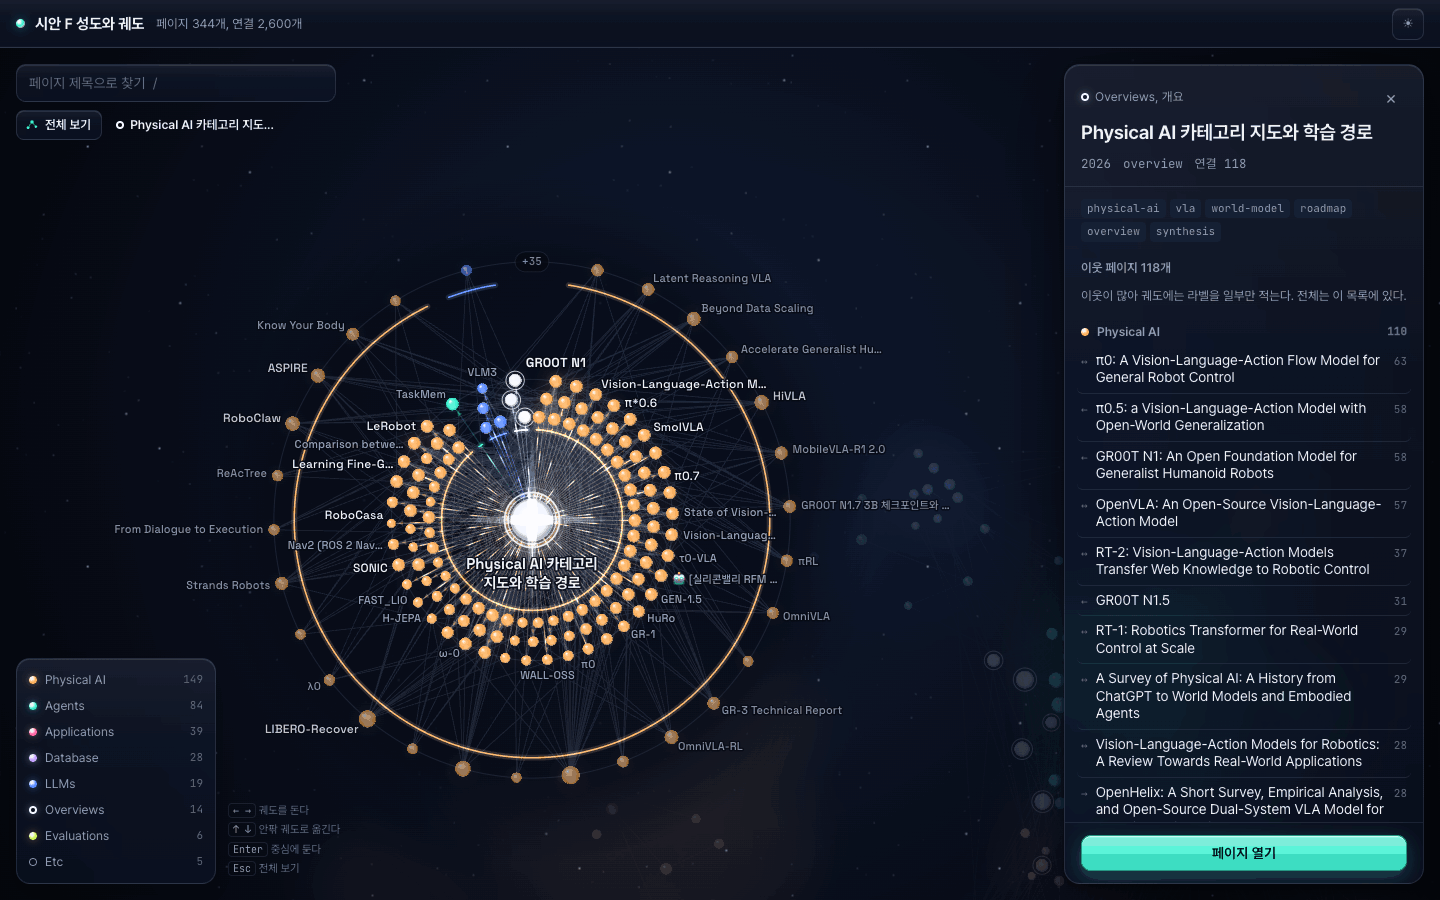
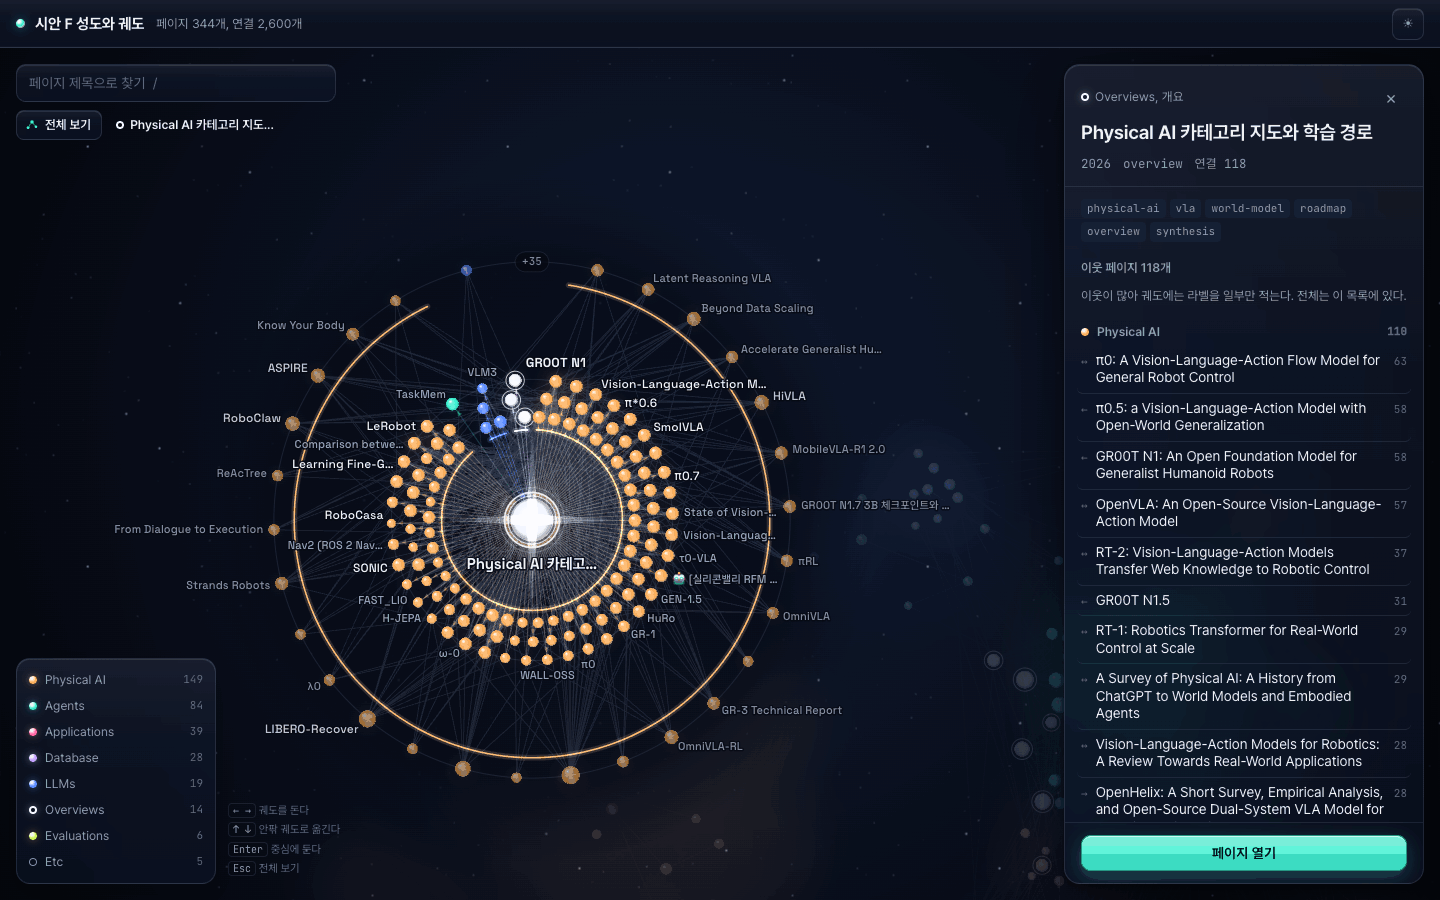
:white_check_mark: test: 그래프 통합 시안 F 독립 검증, 결함 수정, 색각 이상 팔레트 조정 (Phase 1)
Claude-Session: https://claude.ai/code/session_01FQuCiX7t8h1AiDHEnij3aM

diff --git a/docs/graph-mockups/f-atlas-orbit.html b/docs/graph-mockups/f-atlas-orbit.html
@@ -85,9 +85,9 @@
     --cat-agents: #008f78;
     --cat-applications: #d42a6c;
     --cat-database: #8a46e0;
-    --cat-llms: #2458e8;
+    --cat-llms: #1e4ac3;
     --cat-overviews: #141a2e;
-    --cat-evaluations: #5f8500;
+    --cat-evaluations: #486500;
     --cat-etc: #6b7690;
 
     --graph-bg: #f3f4f8;
@@ -269,9 +269,12 @@
   @media (max-width: 640px) {
     .f-trail { max-width: calc(100% - 2 * var(--space-4)); }
     .f-hint { display: none !important; }
-    .mk-legend { width: auto; display: flex; gap: 2px; padding: 6px 8px; }
+    .mk-legend { width: auto; display: flex; flex-wrap: wrap; gap: 2px; padding: 6px 8px; max-width: calc(100vw - 2 * var(--space-4) - 96px); }
     .mk-legend li { padding: 0; width: 26px; height: 26px; justify-content: center; }
     .mk-legend li .a-name, .mk-legend .mk-legend-n, .mk-legend .f-legend-reset { display: none; }
+    /* 누른 견본은 이름을 펼친다: 성운 이름이 자리를 못 찾아도 탭 한 번으로 카테고리를 읽는다 */
+    .mk-legend li[aria-pressed='true'] { width: auto; padding: 0 9px 0 8px; gap: 6px; }
+    .mk-legend li[aria-pressed='true'] .a-name { display: inline; font-size: var(--text-xs); color: var(--text); white-space: nowrap; }
     .mk-legend li .mk-swatch { width: 10px; height: 10px; }
     .mk-legend li[aria-pressed='true'] { background: color-mix(in srgb, var(--c) 22%, transparent); }
     .f-tools #reset-filter { display: none; }
@@ -482,7 +485,7 @@ function main() {
     var ns = nodes.filter(function (n) { return n.category === c.id; });
     var xs = ns.map(function (n) { return n.hx; }).sort(function (a, b) { return a - b; });
     var ys = ns.map(function (n) { return n.hy; }).sort(function (a, b) { return a - b; });
-    return { id: c.id, en: c.en, n: ns.length, x: xs[xs.length >> 1], top: ys[0], bottom: ys[ys.length - 1] };
+    return { id: c.id, en: c.en, n: ns.length, x: xs[xs.length >> 1], y: ys[ys.length >> 1], top: ys[0], bottom: ys[ys.length - 1], left: xs[0], right: xs[xs.length - 1] };
   });
   var rank = nodes.slice().sort(function (a, b) { return b.degree - a.degree; });
   rank.forEach(function (n, i) { n.rank = i; });
@@ -733,8 +736,8 @@ function main() {
       if (i > 0 && n.category !== list[i - 1].category) a += gap;
       var tr = tracks > 1 ? i % tracks : 0;
       pos.set(n.id, { rad: R + tr * TRACK, ang: a + step / 2, ring: ring, cap: cap });
-      if (!arc || arc.cat !== n.category) { arc = { cat: n.category, a0: a, a1: a + step, r: arcR }; arcs.push(arc); }
-      else arc.a1 = a + step;
+      if (!arc || arc.cat !== n.category) { arc = { cat: n.category, a0: a, a1: a + step, r: arcR, n: 1 }; arcs.push(arc); }
+      else { arc.a1 = a + step; arc.n++; }
       a += step;
     });
   }
@@ -1185,7 +1188,8 @@ function main() {
     // 카테고리 호: 넓고 흐린 빛 위에 가는 선 한 줄
     ctx.globalCompositeOperation = F.blend;
     v.arcs.forEach(function (arc) {
-      var am = cats && !cats.has(arc.cat) ? T.dimAlpha : 1;
+      if (arc.n < 2) return; // 한 개짜리 호는 노드 밑을 긋는 취소선처럼 읽힌다. 노드 색이 이미 카테고리를 말한다
+      var am =cats && !cats.has(arc.cat) ? T.dimAlpha : 1;
       var a1 = Math.max(arc.a0 + 0.008, arc.a1 - 0.004), a0 = arc.a0 + 0.004;
       var end = Math.min(a1, START + TAU * prog);
       if (end <= a0) return;
@@ -1276,12 +1280,15 @@ function main() {
     CAT_INFO.forEach(function (c) {
       if (c.id === 'overviews' || c.n < 5) return;
       var a = cats ? (cats.has(c.id) ? 1 : 0.25) : 1;
-      var size = c.n > 60 ? 15 : 13;
+      var mob = isMobile(), size = mob ? (c.n > 60 ? 13 : 11) : c.n > 60 ? 15 : 13;
       ctx.font = '500 ' + size + 'px ' + T.fontDisplay;
-      if ('letterSpacing' in ctx) ctx.letterSpacing = '0.16em';
+      if ('letterSpacing' in ctx) ctx.letterSpacing = mob ? '0.1em' : '0.16em';
       var tw = ctx.measureText(c.en).width, x0 = c.x * k + tx;
-      var top = c.top * k + ty, bot = c.bottom * k + ty;
-      var cands = [[x0, top - 18], [x0, bot + size + 18], [x0, top - 40], [x0, bot + size + 40], [x0 - tw * 0.6, top - 18], [x0 + tw * 0.6, top - 18]];
+      var top = c.top * k + ty, bot = c.bottom * k + ty, ym = c.y * k + ty + size / 2;
+      var lft = c.left * k + tx - tw / 2 - 10, rgt = c.right * k + tx + tw / 2 + 10;
+      // 위아래가 막히면 성운 옆, 그다음 성운 안 빈 자리를 본다 (좁은 모바일에서 Applications 가 빠지던 문제)
+      var cands = [[x0, top - 18], [x0, bot + size + 18], [x0, top - 40], [x0, bot + size + 40], [x0 - tw * 0.6, top - 18], [x0 + tw * 0.6, top - 18],
+        [lft, ym], [rgt, ym], [x0 - tw * 0.6, bot + size + 18], [x0 + tw * 0.6, bot + size + 18], [x0, ym]];
       var spot = null;
       for (var ci = 0; ci < cands.length && !spot; ci++) {
         var x = cands[ci][0], y = cands[ci][1];
@@ -1298,7 +1305,7 @@ function main() {
       ctx.globalAlpha = alpha * a * (dark ? 0.7 : 0.8);
       ctx.fillStyle = T.cat[c.id];
       ctx.fillText(c.en, spot[0], spot[1]);
-      nameBoxes.push({ x: spot[0] - tw / 2 - 4, y: spot[1] - size - 2, w: tw + 8, h: size + 6 });
+      nameBoxes.push({ x: spot[0] - tw / 2 - 4, y: spot[1] - size - 2, w: tw + 8, h: size + 6, id: c.id });
     });
     if ('letterSpacing' in ctx) ctx.letterSpacing = '0px';
     ctx.textAlign = 'left'; ctx.globalAlpha = 1;
@@ -1363,7 +1370,7 @@ function main() {
     fitCache.set(key, out);
     return out;
   }
-  var orbitLabelCount = 0;
+  var orbitLabelCount = 0; var centerBoxes = [];
   function drawOrbitLabels(h, cats) {
     var k = cam.k, cs = S({ x: C.x, y: C.y });
     var rightBound = isMobile() || panelEl.hidden ? W - 8 : W - 360 - 32;
@@ -1378,14 +1385,21 @@ function main() {
       ctx.globalAlpha = clamp((cd.lt - 0.6) / 0.4);
       ctx.font = '700 15px ' + T.fontDisplay; ctx.textAlign = 'center'; ctx.textBaseline = 'top'; ctx.fillStyle = T.label;
       if ('letterSpacing' in ctx) ctx.letterSpacing = '-0.01em';
-      // 중심 라벨이 안쪽 궤도에 닿지 않게: 궤도가 작으면 짧은 이름 한 줄
-      var room = view.R1 * k - rc - 16;
-      var lines = room > 64 ? wrap(cd.title, Math.min(260, view.R1 * k * 1.3), 2) : wrap(cd.label, Math.min(220, view.R1 * k * 1.5), 1);
-      var y0 = c0.y + rc + 16;
+      // 중심 라벨이 안쪽 궤도에 닿지 않게: 줄마다 안쪽 궤도 노드 안쪽 원의 현 길이를 넘지 않는다.
+      // 두 줄에 제목이 다 들어가지 않으면 짧은 이름 한 줄로 줄인다 (전체 제목은 패널이 맡는다)
+      centerBoxes = [];
+      var y0 = c0.y + rc + 16, rIn = 0;
+      view.r1.forEach(function (m) { rIn = Math.max(rIn, nodeR(m)); });
+      rIn = Math.min(view.R1 * k - rIn - 6, (view.R1 - 16) * k - 5); // 안쪽 카테고리 호(R1 - 16)도 넘지 않는다
+      var chord = function (dy) { return 2 * Math.sqrt(Math.max(0, rIn * rIn - dy * dy)); }; // dy: 줄 글자 아래끝 (15px 글꼴 17px, 둘째 줄 36px)
+      var lines = wrap(cd.title, Math.min(260, chord(y0 - c0.y + 36)), 2);
+      var w1 = chord(y0 - c0.y + 17);
+      if (/…$/.test(lines[lines.length - 1])) lines = w1 >= 16 ? wrap(cd.label, Math.min(220, w1), 1) : []; // 궤도가 아주 작으면 라벨 없이 경로 줄과 패널에 맡긴다
       lines.forEach(function (ln, i) {
         label(ln, c0.x, y0 + i * 19);
         var w = ctx.measureText(ln).width;
         boxes.push({ x: c0.x - w / 2 - 2, y: y0 + i * 19 - 2, w: w + 4, h: 19 });
+        centerBoxes.push(boxes[boxes.length - 1]);
       });
       if ('letterSpacing' in ctx) ctx.letterSpacing = '0px';
     }
@@ -1549,7 +1563,9 @@ function main() {
   pToggle.addEventListener('click', function () {
     var peek = panelEl.classList.toggle('is-peek');
     pToggle.setAttribute('aria-expanded', String(!peek));
-    syncSheet(); redraw();
+    syncSheet();
+    if (view) flyTo(orbitCam(view), 360); // 시트 높이가 바뀌면 중심이 시트 밑에 숨지 않게 궤도를 남은 자리에 다시 맞춘다
+    redraw();
   });
   function announce(n) { document.getElementById('live').textContent = n.title + ' 중심. 이웃 ' + n.nb.size + '개'; }
 
@@ -1814,6 +1830,7 @@ function main() {
     select: function (id) { recenter(id); }, exit: function () { exitOrbit(); },
     view: function () { return view && { cid: view.cid, r1: view.r1.length, r2: view.r2.length, hidden: view.hidden, labels: orbitLabelCount }; },
     drawTimes: drawTimes,
+    names: function () { return nameBoxes.map(function (b) { return b.id; }); }, centerBoxes: function () { return centerBoxes; },
   };
 }
 })();

diff --git a/docs/graph-mockups/design-direction.md b/docs/graph-mockups/design-direction.md
@@ -44,7 +44,7 @@
 | 수치 | JetBrains Mono | 11px ~ 12.5px | 400 | `tabular-nums` |
 | 캔버스 라벨 | Space Grotesk | 11 / 12 / 13px | 500, 허브와 호버 700 | 0.01em |
 | 궤도 중심 라벨 | Space Grotesk | 15px | 700 | -0.01em |
-| 성운 이름 | Space Grotesk | 13 / 15px | 500 | 0.16em, 알파 dark 0.7, light 0.8 |
+| 성운 이름 | Space Grotesk | 13 / 15px (모바일 11 / 13px) | 500 | 0.16em (모바일 0.1em), 알파 dark 0.7, light 0.8 |
 
 라벨 뒤에는 `--graph-label-halo` 3px stroke를 먼저 그린다. 크기 기준은 처음 판과 같다 (degree 50 이상 13px, 15 ~ 49는 12px, 14 이하 11px muted).
 
@@ -58,14 +58,15 @@
 | agents | `--cat-agents` | `#3ef2d2` | 13.9 | `#008f78` | 3.7 | 구 |
 | applications | `--cat-applications` | `#ff6aa6` | 7.4 | `#d42a6c` | 4.4 | 구 |
 | database | `--cat-database` | `#c4a2ff` | 9.3 | `#8a46e0` | 4.7 | 구 |
-| llms | `--cat-llms` | `#5e8eff` | 6.4 | `#2458e8` | 5.3 | 구 |
+| llms | `--cat-llms` | `#5e8eff` | 6.4 | `#1e4ac3` | 6.8 | 구 |
 | overviews | `--cat-overviews` | `#f3f6ff` | 18.2 | `#141a2e` | 15.7 | 구 + 바깥 고리 |
-| evaluations | `--cat-evaluations` | `#cdf25a` | 15.4 | `#5f8500` | 4.0 | 구 |
+| evaluations | `--cat-evaluations` | `#cdf25a` | 15.4 | `#486500` | 6.1 | 구 |
 | etc | `--cat-etc` | `#7d8ba6` | 5.7 | `#6b7690` | 4.1 | 유리 고리 (빈 원) |
 
 - 모든 색이 그래픽 기준 3:1을 넘는다. 텍스트는 카테고리 색이 아니라 `--text`(dark 15.5:1, light 15.7:1)와 `--muted`(dark 6.2:1, light 5.7:1)로 쓴다.
-- llms와 database는 처음 판처럼 밝기를 갈라 둔다 (dark에서 llms 어둡게, database 밝게).
-- 색각 이상 시뮬레이션은 이번 개정에서 다시 돌리지 않았다. 처음 판과 hue 자리는 같고 밝기 순서도 같으나, 사이트 이식 전에 Machado 2009 검사를 다시 한다.
+- llms와 database는 처음 판처럼 밝기를 갈라 둔다 (dark에서 llms 어둡게, database 밝게). light에서도 llms를 database보다 어둡게 둔다.
+- 색각 이상 검사: Machado 2009 행렬(심각도 1.0)로 제1, 제2, 제3 색각 이상을 흉내 내고 짝마다 CIEDE2000 거리를 잰다. 처음 light 값에서 제1색각 이상의 database와 llms가 1.3, 제2색각 이상의 physical-ai와 evaluations가 4.7로 무너졌다. 둘 다 모양 단서가 없는 짝이라 light의 llms를 `#2458e8`에서 `#1e4ac3`으로, evaluations를 `#5f8500`에서 `#486500`으로 어둡게 옮겼다. 앵커 둘(아쿠아, 앰버)과 dark 값은 그대로다.
+- 고친 뒤 모양 단서 없는 짝의 최소 거리는 dark 6.8(제2색각 이상, physical-ai와 evaluations), light 5.6(제3색각 이상, physical-ai와 applications)이다. 5 아래로 떨어지는 짝은 dark 제1색각 이상의 applications와 etc(0.1) 하나뿐이고, etc는 빈 원이라 모양으로 갈린다. overviews도 바깥 고리로 갈린다. 범례 이름과 성운 이름, 패널의 카테고리 글자가 색을 거들고, 모바일 범례는 누른 견본에 이름을 펼친다.
 - 범례와 견본 점도 작은 구슬로 그린다 (`radial-gradient(circle at 34% 30%, 흰색 0 14%, 색 52%, 색 70% + 검정 100%)`). dark는 8px 색 빛번짐을 더한다. overviews 고리와 etc 빈 원은 그대로다.
 
 ## 4. 노드, 엣지, 라벨
@@ -110,7 +111,7 @@
 | 바깥 궤도의 위아래 호 | 라벨을 그리지 않는다. 패널 목록이 맡는다 |
 
 - 우선순위는 호버 노드, 그 이웃, 안쪽 궤도, degree 순이다. 크롬, 다른 라벨, 다른 노드의 원과 겹치면 뺀다. 안쪽 궤도 최대 64개, 바깥 궤도 최대 18개.
-- 중심 라벨은 노드 아래 가로로 둔다. 안쪽 궤도까지 64px 넘게 남으면 전체 제목 두 줄, 아니면 짧은 이름 한 줄이다.
+- 중심 라벨은 노드 아래 가로로 둔다. 줄마다 너비를 안쪽 궤도 노드 안쪽 원의 현 길이(노드 반지름과 6px 여유를 뺀 원, 그리고 안쪽 카테고리 호 `R1 - 16` 에서 5px 안쪽 원 중 작은 것)로 막는다. 전체 제목이 두 줄에 다 들어가면 두 줄, 아니면 짧은 이름 한 줄, 그 현도 16px보다 좁으면 라벨을 그리지 않고 경로 줄과 패널에 맡긴다.
 - 허브(degree 118)는 이웃 118개 중 약 40개에만 라벨이 붙는다. 패널 첫머리에 "이웃이 많아 궤도에는 라벨을 일부만 적는다. 전체는 이 목록에 있다" 를 적는다.
 
 ## 5. 두 화면과 전환
@@ -125,7 +126,7 @@
 - 중심을 옮길 때: B와 같이 극좌표로 궤도를 따라 600ms 미끄러지고, 이전 궤도 엣지와 교차 페이드한다. 경로(breadcrumb)는 최근 4개를 보인다.
 - 나올 때: 바깥 궤도, 안쪽 궤도 순으로 성도 자리로 돌아가고 카메라는 들어가기 전 위치로 돌아간다 (640ms). 같은 개요 화면이 그대로 돌아온다.
 - 나오는 방법은 넷이다: 경로 줄 맨 앞 "전체 보기" 버튼, 패널의 ×, Esc, 브라우저 뒤로 가기. 궤도에 들어갈 때 `#node=` 를 history 에 쌓아서 뒤로 가기가 개요로 돌아간다. 중심 옮기기는 history 를 쌓지 않고 바꾼다.
-- 카테고리 호는 반지름을 안쪽 궤도 `R1 - 16`, 바깥 궤도 `R2 - 26` 에 두어 노드를 가로지르지 않는다. 넓은 6px 흐린 빛(dark 0.16, light 0.1) 위에 1.6px 선을 한 줄 그린다.
+- 카테고리 호는 반지름을 안쪽 궤도 `R1 - 16`, 바깥 궤도 `R2 - 26` 에 두어 노드를 가로지르지 않는다. 노드가 하나뿐인 묶음은 호를 그리지 않는다 (노드 밑에 붙은 짧은 호가 취소선처럼 읽힌다). 넓은 6px 흐린 빛(dark 0.16, light 0.1) 위에 1.6px 선을 한 줄 그린다.
 
 ## 6. 크롬 컴포넌트
 
@@ -139,7 +140,7 @@
 | 주 버튼 "페이지 열기" | 세로 그라데이션 `--f-primary-top` → `--f-primary-bottom`, 위 안쪽 흰 빛 0.45, 같은 색 그림자 35%. 글자 dark `#03141a`, light `#ffffff` (대비 5.1:1) |
 | 검색 포커스 | 테두리 signal 60%, 바깥 3px `--signal-dim` |
 | 경로 줄 | 검색 아래 30px 줄. "전체 보기" 버튼(별자리 아이콘) 다음에 지나온 페이지 |
-| 범례 | 좌하단 독. 모바일은 견본 점 8개 한 줄이고 하단 시트 위로 올라간다 (`--sheet`) |
+| 범례 | 좌하단 독. 모바일은 견본 점 8개 한 줄이고 하단 시트 위로 올라간다 (`--sheet`). 누른 견본은 이름을 펼치고 줄이 넘치면 두 줄로 접힌다. 시트를 펼치거나 접으면 궤도를 남은 자리에 다시 맞춘다 |
 | 툴팁 | 노드 아래 `r + 10px`, 노드 왼쪽 14px에서 시작. 화면 아래가 모자라면 노드 위로, 라벨 줄을 넘어 뒤집는다 |
 | 조작 안내 | 범례 옆 11px faint. 성도와 궤도에서 내용이 바뀐다 |
 | 대체 목록 | CDN 이나 스크립트가 실패하면 캔버스 대신 카테고리별 페이지 목록 (300px 열 격자) |

diff --git a/docs/graph-design-plan.md b/docs/graph-design-plan.md
@@ -158,6 +158,7 @@
 - [x] 시안 비교 요약 작성 (이 문서 4절 표 갱신)
 - [x] 사용자 시안 선택 (조합 가능): A + B 전환 (7절 Q7 ~ Q9)
 - [x] 선택 방향 통합 시안: `docs/graph-mockups/f-atlas-orbit.html` (A 조감에서 B 궤도로 전환, 빛나는 톤으로 시각 개선, `design-direction.md` 갱신)
+- [x] 통합 시안 F 독립 검증과 결함 수정 (Chrome 59항목 통과, Firefox와 WebKit 핵심 12항목 통과, 색각 이상 시뮬레이션)
 
 ### Phase 2. 상세 설계
 
@@ -226,3 +227,5 @@
 | 2026-11-16 | 사용자 시안 선택: A + B 전환, 빛나는 톤으로 시각 개선 요청, E는 별도 실험 페이지, 모바일은 전체 조감. 통합 시안 F를 Phase 1 항목으로 추가 |
 | 2026-11-17 | 통합 시안 F 작성 (`f-atlas-orbit.html`). 조감에서 궤도로 640ms 전환, 되돌아오면 카메라와 노드가 원위치. 2-hop 28개 제한, 궤도 라벨은 모두 가로. 구슬형 노드와 빛줄기 엣지, 유리 패널, 더 선명한 8색으로 `design-direction.md` 갱신. CDN 실패 시 텍스트 목록 대체 추가. 전환과 줌 모두 프레임 간격 16.7ms (Chrome) |
 | 2026-11-17 | 시안 F에 남은 것: 외곽 궤도에 노드가 하나뿐인 카테고리의 호가 노드를 가로지름, π0 중심 라벨이 안쪽 궤도에 바짝 붙음, 375px 조감에서 Applications 이름 생략. 새 팔레트의 색각 이상 시뮬레이션, 실기기 핀치, Safari와 Firefox, 실제 GPU 프레임은 미확인. Phase 2에서 정할 것: 선택 후 엣지 반짝임 지속 시간(지금 7초), 궤도 진입 시 브라우저 히스토리 추가 여부 |
+| 2026-11-17 | 시안 F 독립 검증. Chrome 59항목 모두 통과: 네 가지 복귀 경로에서 노드와 카메라 원위치, 두 손가락 핀치(CDP 터치 이벤트), reduced-motion, CDN 차단 시 344개 대체 목록, 375px. Firefox 159와 WebKit 27.2에서 핵심 12항목 통과. 고친 것: 단독 노드 그룹의 호 제거, 중심 라벨을 안쪽 궤도 안에 맞춤(안 맞으면 짧은 이름), 모바일 시트를 펼치면 궤도를 다시 맞춤. 색각 이상 시뮬레이션(Machado 2009, CIEDE2000)에서 라이트 테마 두 쌍이 무너져 llms `#1e4ac3`, evaluations `#486500` 으로 조정 |
+| 2026-11-17 | 시안 F에 남은 것: 375px 조감에서 Applications 이름은 여전히 자리가 없어 범례 탭으로 이름을 보여 준다. 크게 축소하면 "+k" 표시가 첫 외곽 노드에 붙는다. 모바일 시트를 펼치면 궤도가 작아진다. 다크 테마 적색맹에서 applications와 etc는 색으로 구분되지 않고 etc의 빈 고리 모양으로만 구분된다. 실기기, 실제 GPU 프레임, 모바일 Safari와 Firefox, 스크린 리더는 미확인 (이 환경에서 확인 불가) |
